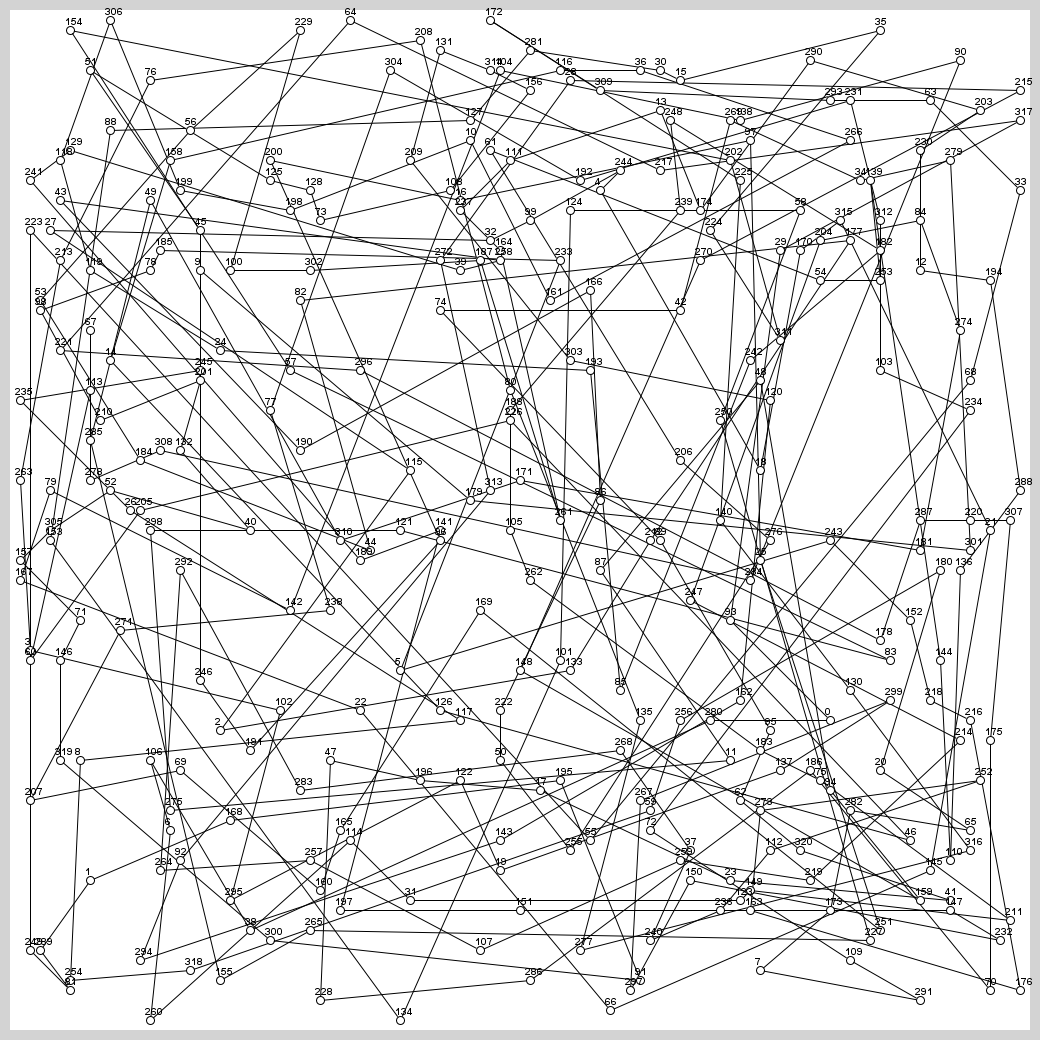
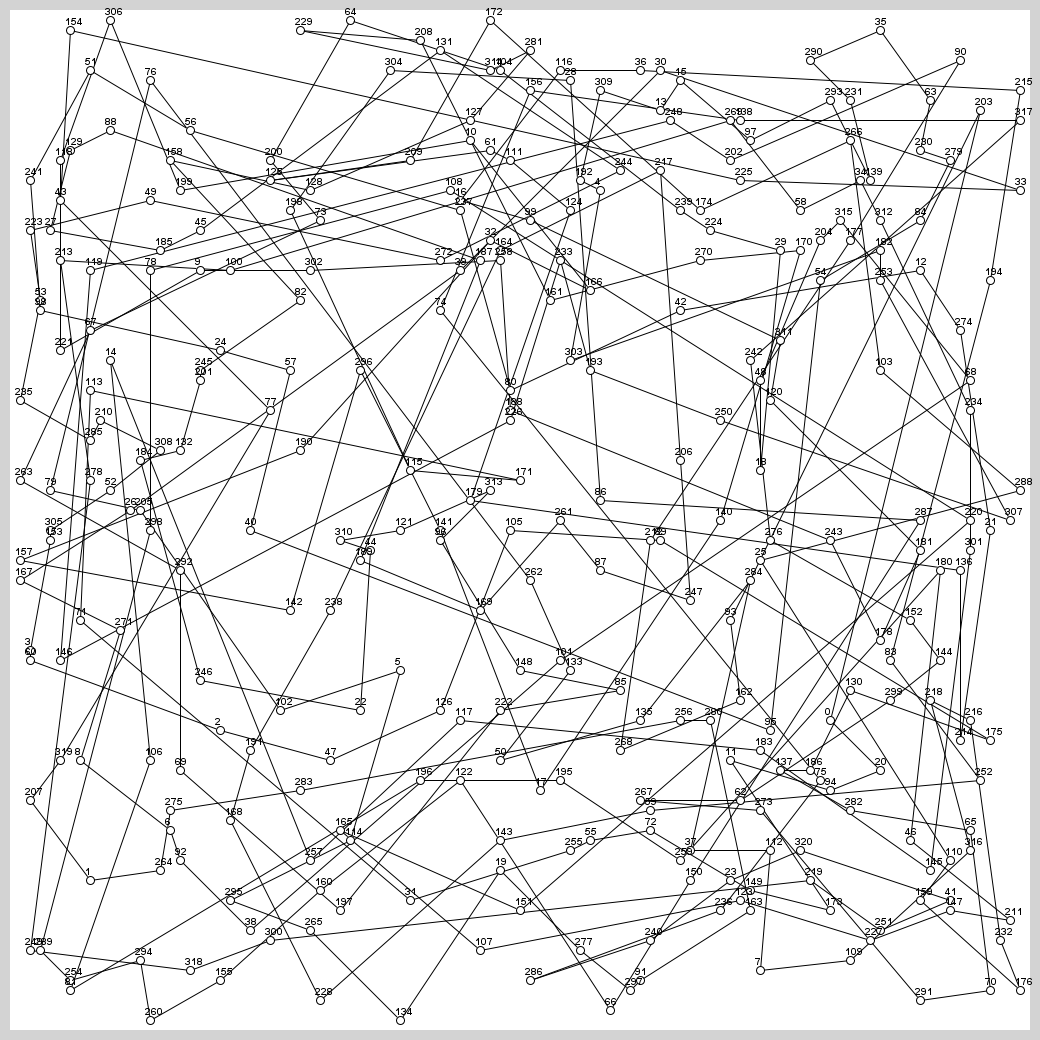
試行数を増やした

diff --git a/TypicalMM_TSP/main.cpp b/TypicalMM_TSP/main.cpp
@@ -231,14 +231,14 @@ private:
 		return pro > random();
 	}
 
-	const double score(const vector<Point>& points) const {
+	const double getScore(const vector<int>& index, const vector<Point>& points) const {
 
 		double r = 0;
 		int size = static_cast<int>(points.size());
 
 		for (int i = 0; i < size - 1; i++)
-			r += range(points[i], points[i + 1]);
-		r += range(points[0], points[size - 1]);
+			r += range(points[index[i]], points[index[i + 1]]);
+		r += range(points[index[0]], points[index[size - 1]]);
 
 		return r;
 	}
@@ -249,12 +249,16 @@ public:
 
 	}
 
-	vector<Point> think(const vector<Point>& points) {
-
-		vector<Point> field = points;
-		vector<Point> best = field;
+	vector<int> think(const vector<Point>& points) {
 
 		const int size = static_cast<int>(points.size());
+
+		vector<int> field(size);
+		for (int i = 0; i < size; i++)
+		{
+			field[i] = points[i].id;
+		}
+		vector<int> best = field;
 
 		random_device rnd;
 		mt19937 mt(rnd());
@@ -262,6 +266,11 @@ public:
 		uniform_int_distribution<> randBetween(0, size - 1);
 
 		Timer timer(chrono::milliseconds(this->T));
+
+		double bestScore = getScore(best, points);
+		double score = getScore(field, points);
+
+		long long count = 0;
 
 		timer.start();
 		while (!timer)
@@ -271,24 +280,39 @@ public:
 			for (int i = 0; i < 100; i++)
 			{
 				const int index = randBetween(mt);
+				count++;
 
 				const int p0 = index;
 				const int p1 = (index + 1) % size;
 				const int p2 = (index + 2) % size;
 				const int p3 = (index + 3) % size;
 
-				const double baseRange = range(field[p0], field[p1]) + range(field[p1], field[p2]) + range(field[p2], field[p3]);
-				const double deffRange = range(field[p0], field[p2]) + range(field[p2], field[p1]) + range(field[p1], field[p3]);
+				const double baseRange = range(points[field[p0]], points[field[p1]]) + range(points[field[p2]], points[field[p3]]);
+				const double deffRange = range(points[field[p0]], points[field[p2]]) + range(points[field[p1]], points[field[p3]]);
 
 				if (probability(baseRange, deffRange, diff))
 				{
 					swap(field[p1], field[p2]);
 
-					if (score(best) > score(field))
+					score -= baseRange - deffRange;
+
+					if (bestScore > score && baseRange < deffRange)
+					{
 						best = field;
+						swap(best[p1], best[p2]);
+						bestScore = score += baseRange - deffRange;
+					}
 				}
 			}
 		}
+
+		if (bestScore > score)
+		{
+			best = field;
+			bestScore = score;
+		}
+
+		cerr << count << endl;
 
 		return best;
 	}
@@ -316,7 +340,7 @@ int main() {
 
 	for (const auto& pos : answer)
 	{
-		cout << pos.id << endl;
+		cout << pos << endl;
 	}
 
 	return 0;
